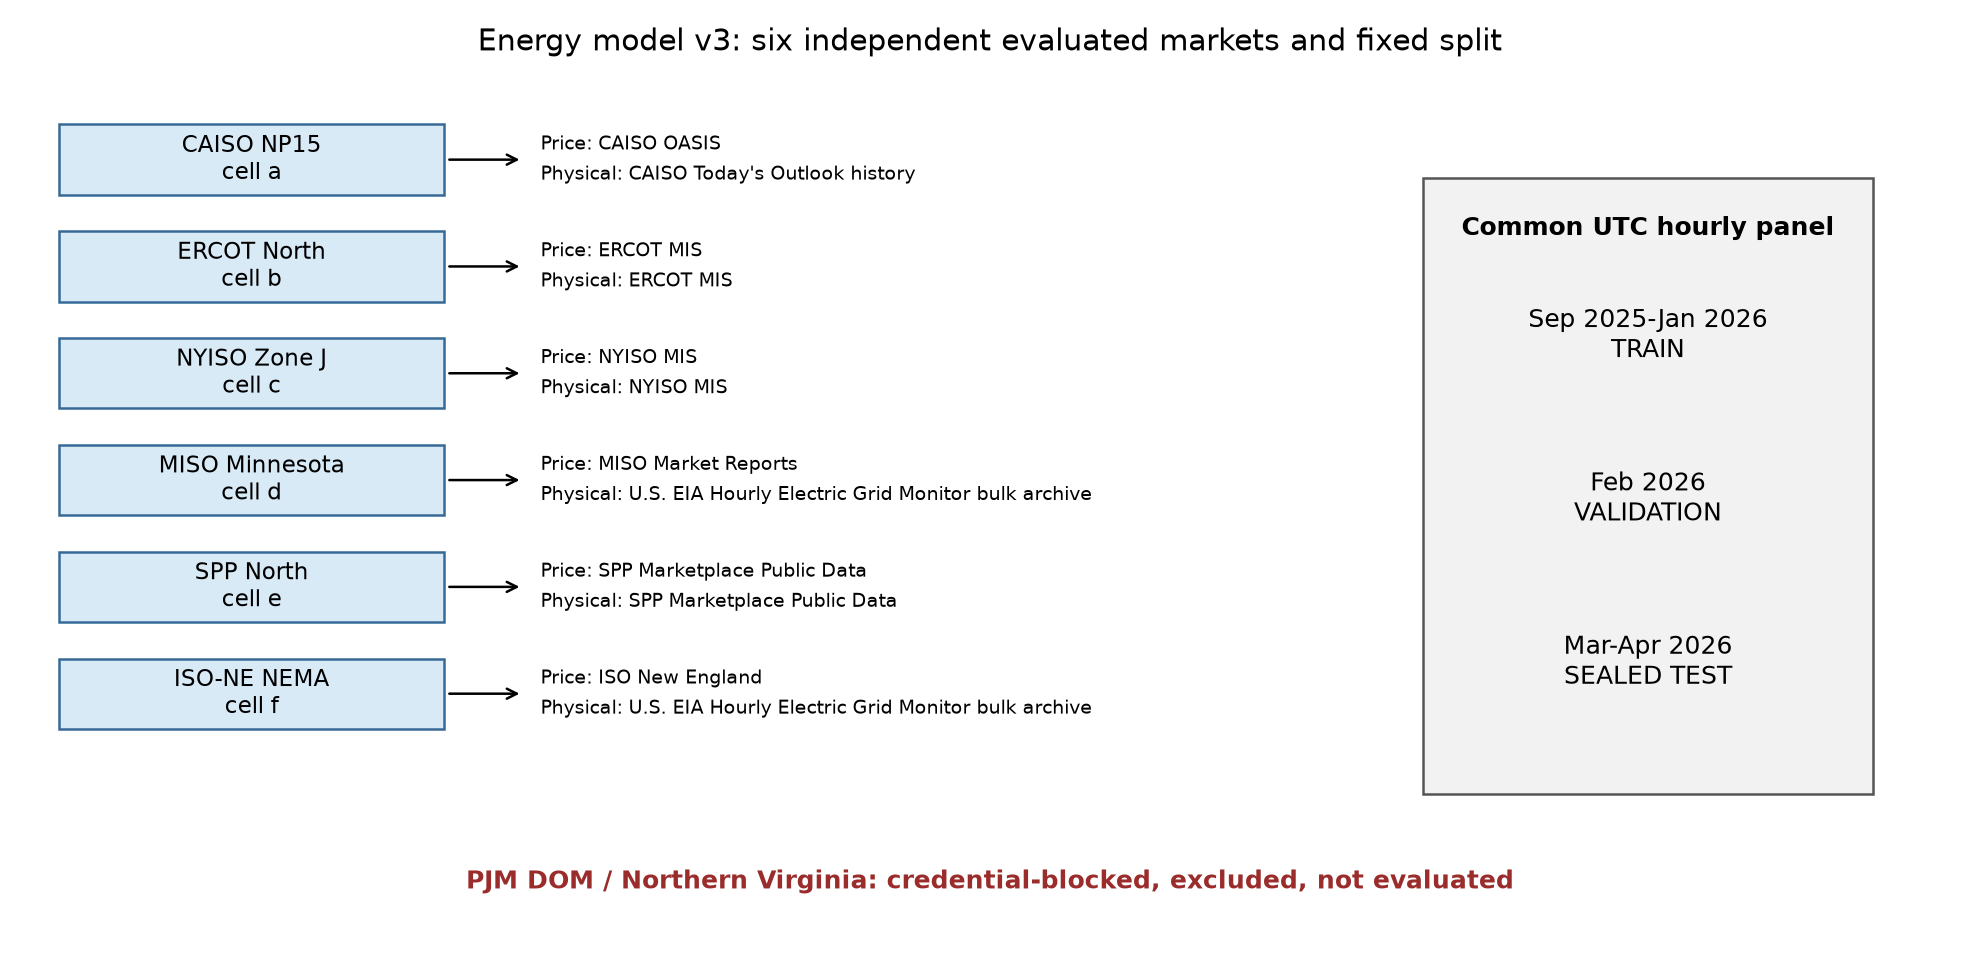
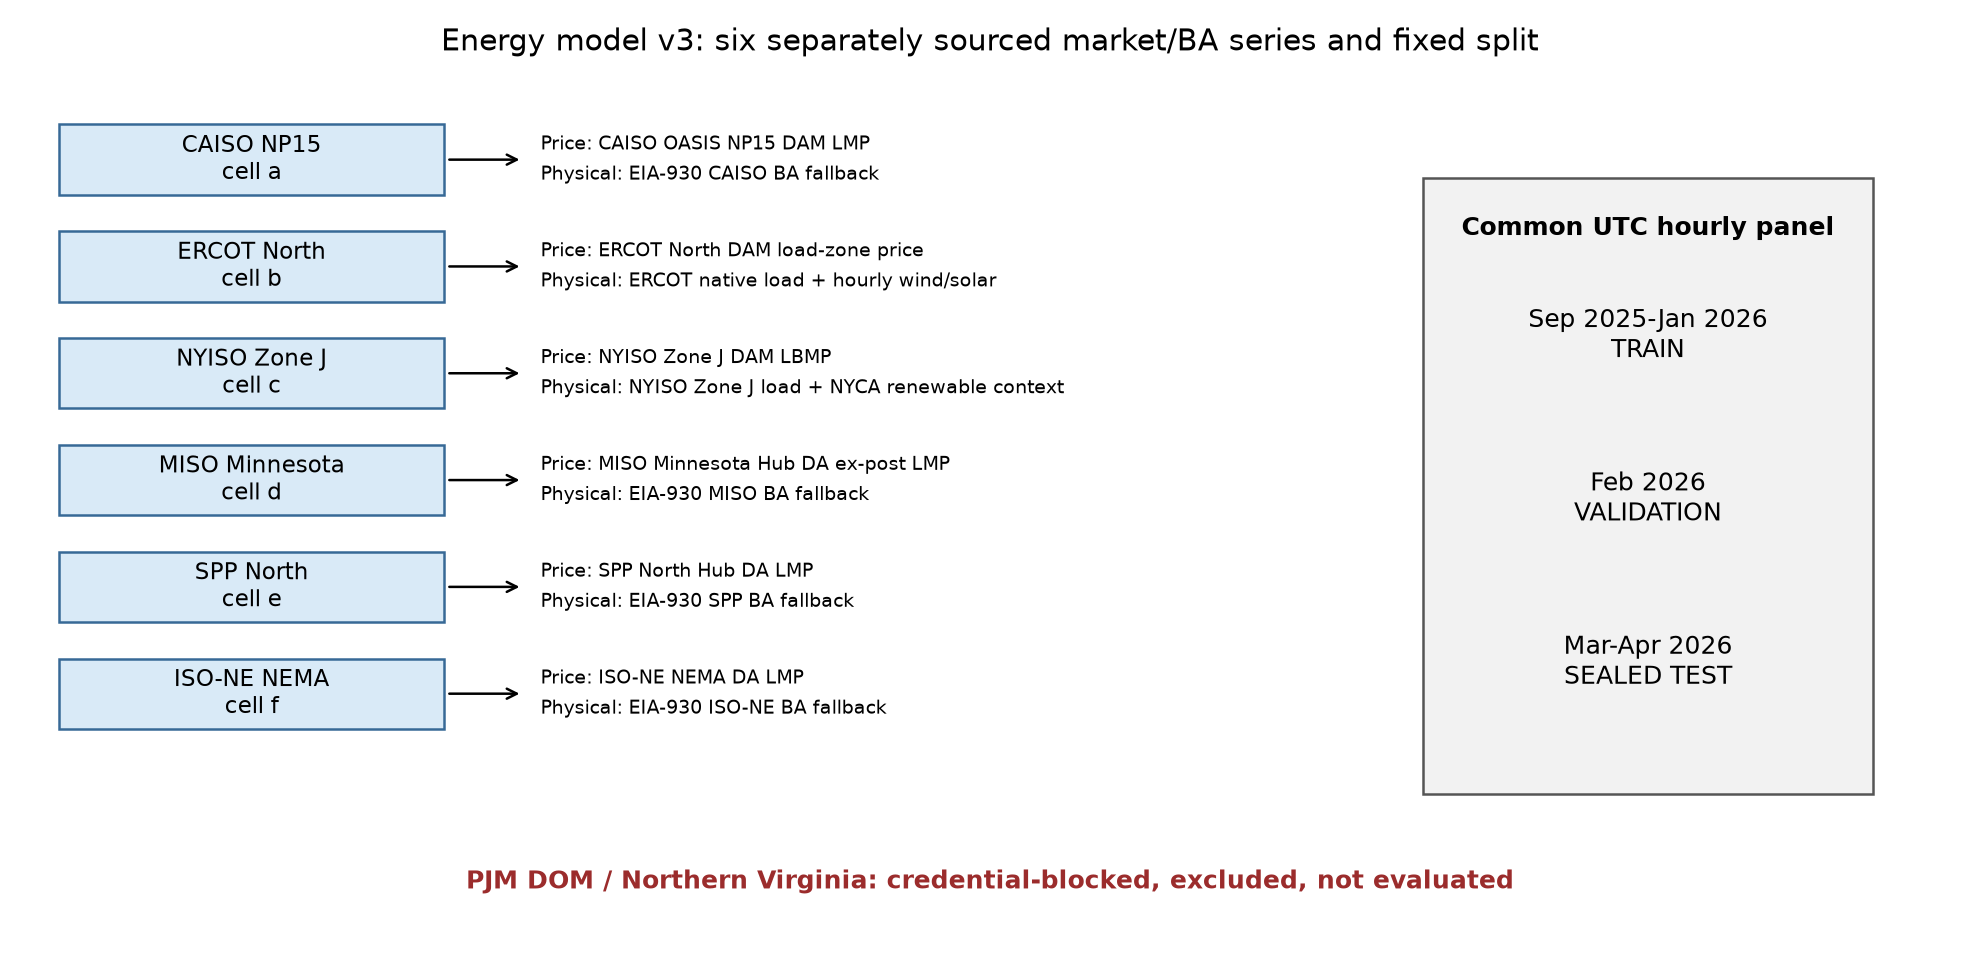
Publish reviewed V4R thesis artifacts

diff --git a/thesis_paper.md b/thesis_paper.md
@@ -20,9 +20,11 @@ thesis asks whether a controller whose learned preferences originate entirely
 in reward-only reinforcement learning can reduce a fleet's incremental
 contribution to physical 1 h and 3 h net-load ramps while preserving exact
 workload service and a day-ahead energy-cost constraint. The study uses a common
-hourly UTC panel from September 2025 through April 2026 for six independently
-observed US markets: CAISO NP15, ERCOT North, NYISO Zone J, MISO Minnesota Hub,
-SPP North Hub, and ISO New England NEMA. September-January is training,
+hourly UTC panel from September 2025 through April 2026 for six separately
+sourced market/balancing-authority series: CAISO NP15, ERCOT North, NYISO Zone J,
+MISO Minnesota Hub, SPP North Hub, and ISO New England NEMA. These are fixed
+market cases, not statistically independent samples or facility-level grids;
+hub/zonal price and physical-stress geographies can differ. September-January is training,
 February is validation, and March-April is sealed test. PJM DOM / Northern
 Virginia was not evaluated because the required credential was unavailable.
 
@@ -61,7 +63,7 @@ emissions, or renewable mismatch by moving workload to favorable places and
 times. Those objectives are useful, but an immediate price signal does not
 directly identify whether controllable demand anticipates a future physical
 ramp. A scheduler may save money while amplifying a balancing-area net-load
-change, or it may counter a ramp without lowering a wholesale settlement proxy.
+change, or it may attenuate ramp magnitude without lowering a wholesale settlement proxy.
 This thesis therefore separates a physical ramp estimand from a wholesale
 day-ahead LMP cost constraint.
 
@@ -69,8 +71,10 @@ The data-center contribution is evaluated against the native market trajectory,
 not against zero load. For market \(m\), time \(t\), and horizon \(h\), the
 question is whether adding modeled data-center power makes the squared,
 market-normalized net-load change larger or smaller than it would have been
-under native demand. Negative incremental impact means counter-ramping; positive
-impact means amplification.
+under native demand. Negative incremental impact means the modeled data-center
+load reduced squared normalized ramp magnitude; it does not by itself prove
+opposite-direction action or delivery of a balancing service. Positive impact
+means amplification.
 
 ## 1.2 Why pure-RL attribution matters
 
@@ -103,8 +107,8 @@ The central question is:
 
 The contributions are:
 
-1. an independently sourced six-market hourly panel with explicit geography,
-   licensing, missing-data, and causal-forecast contracts;
+1. six separately sourced market/BA series with explicit price-versus-physical
+   geography, licensing, missing-data, and causal-forecast contracts;
 2. an incremental squared-ramp objective with interpretable 1 h/3 h p95 and
    maximum adjusted-ramp reporting;
 3. a pure-RL attribution boundary that excludes demonstrations, imitation,
@@ -146,7 +150,7 @@ V6 preserved every failure as evidence:
 | V2-A | all three fresh seeds failed at least one strict gate | shaped retry rejected |
 | V2-B | reporting mean remained weak and strict gates failed | retry rejected |
 | V3 | four of five seeds passed; seed 2805 harmed MISO slightly | conjunctive validation failure; test stayed closed |
-| Original V4 | lost binaries prevented trustworthy evaluation | blocked and explicitly unevaluated |
+| Original V4 | N/A: lost binaries prevented trustworthy evaluation | blocked and explicitly not evaluated |
 | V4R | recovered-policy equal-action ensemble passed validation | new recovered-container identity authorized one test opening |
 
 ![Figure 1. Protocol progression with failures, operational block, and V4R validation success.](docs/figures/ramp_v6/protocol_progression.png)
@@ -168,27 +172,32 @@ observations on one exact hourly UTC index:
 
 | Site proxy | Day-ahead price | Physical stress geography | Workload cell |
 |---|---|---|---|
-| Northern California | CAISO NP15 | CAISO system | a |
-| North Texas | ERCOT LZ North | ERCOT system | b |
+| Northern California | CAISO NP15 | CAISO BA gross demand and renewables via EIA-930 fallback | a |
+| North Texas | ERCOT LZ North | ERCOT native load plus hourly wind/solar | b |
 | New York City | NYISO Zone J | Zone J load with NYCA renewable context | c |
-| Minnesota | MISO Minnesota Hub | MISO system | d |
-| SPP North | SPP North Hub | SPP balancing authority | e |
-| Boston/NEMA | ISO-NE location 4008 | ISO New England balancing authority | f |
+| Minnesota | MISO Minnesota Hub | MISO BA gross demand and renewables via EIA-930 fallback | d |
+| SPP North | SPP North Hub | SPP BA gross demand and renewables via EIA-930 fallback | e |
+| Boston/NEMA | ISO-NE location 4008 | ISO-NE BA gross demand and renewables via EIA-930 fallback | f |
 
 ![Figure 2. Six-market study design and fixed calendar split.](docs/figures/ramp_v6/six_market_study_design.png)
 
-These are independent market series, not wall-time shifts of one CAISO trace.
-They are nevertheless fixed cases rather than random draws from all US grids.
-The market-level physical geography is not a facility feeder, utility territory,
-or local reliability zone. PJM DOM / Northern Virginia was not evaluated and
-has no result in any aggregate.
+These are separately sourced market/BA series, not wall-time shifts of one CAISO
+trace. They are fixed cases rather than statistically independent or iid draws
+from all US grids. Their wholesale price products are hub/zonal series, while
+physical stress can be balancing-authority or system scale; neither represents a
+facility feeder, utility territory, or local reliability zone. PJM DOM /
+Northern Virginia was not evaluated and has no result in any aggregate.
 
 ## 3.2 Source and licensing boundaries
 
 Day-ahead price comes from operator products at the stated hub or zone.
 Physical demand and renewable components use operator products where complete
-and defensible; documented same-balancing-authority EIA bulk fallback is used
-only where the operator historical physical tuple is unavailable. Each source
+and defensible. ERCOT and NYISO use the selected operator physical products;
+CAISO, MISO, SPP, and ISO-NE use a documented same-balancing-authority EIA bulk fallback
+because complete, timestamp-defensible operator history was unavailable. In
+particular, CAISO Today's Outlook lacked an authoritative UTC field and SPP
+GenMix365 had 67 incomplete five-minute hours, which could not be interpolated.
+Each source
 descriptor records product, geography, cadence, units, timezone, revision
 status, authentication, retrieval query/time, raw hash, quality flags, and
 redistribution policy. Restricted raw/native/panel files remain local and
@@ -337,9 +346,13 @@ while there was no new V4R training.
 
 **Frozen V4R source commit:** `46329fe765f596f84eeac71f061dcbd191a90583`
 
[1 lines of base64/hex data omitted]
+**Provenance hash contract:** `dc-energy-provenance-sha256-v2`
 
[1 lines of base64/hex data omitted]
+**Canonical JSON representation:** `canonical-json-utf8-sort-compact-v1`
+
[1 lines of base64/hex data omitted]
+
[1 lines of base64/hex data omitted]
 
 ## 6.2 Validation and sealed test
 
@@ -359,14 +372,14 @@ Test uncertainty: 95% day-block interval [-1.4922706381e-05, -1.3524515743e-05] 
 
 ## 6.3 Per-market effects
 
-| Evaluated market | Validation impact | Sealed-test impact | Test direction |
+| Evaluated market | Validation impact | Sealed-test impact | Test interpretation |
 |---|---:|---:|---|
-| CAISO NP15 | -1.8414305411e-05 | -2.1065969624e-05 | counter-ramp |
-| ERCOT North | -3.2585091348e-06 | -2.3454355897e-06 | counter-ramp |
-| ISO-NE NEMA | -2.1716239336e-05 | -2.7491577052e-05 | counter-ramp |
-| MISO Minnesota Hub | -2.9472402337e-07 | -5.652448501e-07 | counter-ramp |
-| NYISO Zone J | -3.7629896454e-05 | -3.2978547293e-05 | counter-ramp |
-| SPP North Hub | -3.2077688281e-06 | -1.1054886764e-06 | counter-ramp |
+| CAISO NP15 | -1.8414305411e-05 | -2.1065969624e-05 | reduced modeled data-center contribution to squared normalized grid ramps |
+| ERCOT North | -3.2585091348e-06 | -2.3454355897e-06 | reduced modeled data-center contribution to squared normalized grid ramps |
+| ISO-NE NEMA | -2.1716239336e-05 | -2.7491577052e-05 | reduced modeled data-center contribution to squared normalized grid ramps |
+| MISO Minnesota Hub | -2.9472402337e-07 | -5.652448501e-07 | reduced modeled data-center contribution to squared normalized grid ramps |
+| NYISO Zone J | -3.7629896454e-05 | -3.2978547293e-05 | reduced modeled data-center contribution to squared normalized grid ramps |
+| SPP North Hub | -3.2077688281e-06 | -1.1054886764e-06 | reduced modeled data-center contribution to squared normalized grid ramps |
 
 ![Figure 4. Sealed-test incremental ramp impact by evaluated market.](docs/figures/ramp_v6/v4r_per_market_test.png)
 
@@ -441,7 +454,8 @@ reliability claim. PJM and Northern Virginia remain absent.
 
 The controller is price-taking: data-center action does not change LMP, unit
 commitment, reserves, or network constraints. This is most plausible for the
-600 MW primary case. The 1 GW-total case is a bounded sensitivity, while larger
+600 MW primary case. The 1 GW-total case is a price-taking scale sensitivity, not evidence that price
+or network response would remain exogenous at that penetration; larger
 penetration overrides are stress tests.
 
 ## 8.2 Data and forecast horizon
@@ -480,11 +494,22 @@ different results.
 ## 9.1 Committed and local evidence
 
 The final publication path is
-`output/ramp_rl_v6/recovered_v4r/canonical_evidence.json`. Recovery binding,
-source freeze, validation/test decisions, single-open records, embedded raw
-results, and post-selection robustness records reside beside it. The generated
-claim ledger and CSV tables are under
-`output/ramp_rl_v6/recovered_v4r/thesis/`.
+`output/ramp_rl_v6/recovered_v4r_resealed_v2/canonical_evidence.json`. Its
+hash contract is `dc-energy-provenance-sha256-v2`. JSON evidence identities use
+`canonical-json-utf8-sort-compact-v1`; tracked non-JSON source text uses
+Git-blob bytes at an explicit commit and path, never platform-dependent
+working-tree bytes. Binary and model-container identities use raw bytes.
+Recovery binding, source freeze, validation/test chains, single-open records,
+and post-selection robustness chains reside beside it. The generated claim
+ledger and CSV tables are under
+`output/ramp_rl_v6/recovered_v4r_resealed_v2/thesis/`.
+
+The reseal has `provenance-hash-chain-only` supersession scope. It supersedes
+only platform-dependent checkout hashes in the original evidence chain; the
+protocol, chronology, controller, trained models, data, forecasts, numerical
+metrics, strict decisions, and sealed-test opening are unchanged. The original
+evidence remains append-only historical provenance rather than the publication
+hash authority.
 
 Recovered model binaries may be intentionally local or unavailable in a fresh
 clone because of size or licensing constraints. Their required SHA-256 values,
@@ -499,18 +524,18 @@ Run from the repository root in this worktree:
 
 ```powershell
 python scripts\build_ramp_rl_thesis_results.py --v4r `
-  output\ramp_rl_v6\recovered_v4r\canonical_evidence.json `
-  --output output\ramp_rl_v6\recovered_v4r\thesis
+  output\ramp_rl_v6\recovered_v4r_resealed_v2\canonical_evidence.json `
+  --output output\ramp_rl_v6\recovered_v4r_resealed_v2\thesis
 
 python scripts\build_ramp_thesis_figures.py
 
 python scripts\materialize_ramp_thesis.py `
-  --results output\ramp_rl_v6\recovered_v4r\canonical_evidence.json `
+  --results output\ramp_rl_v6\recovered_v4r_resealed_v2\canonical_evidence.json `
   --output thesis_paper.md
 
 python scripts\validate_ramp_thesis.py `
   --source thesis_paper.md `
-  --results output\ramp_rl_v6\recovered_v4r\canonical_evidence.json
+  --results output\ramp_rl_v6\recovered_v4r_resealed_v2\canonical_evidence.json
 
 python scripts\build_final_thesis.py `
   --source thesis_paper.md `
@@ -552,8 +577,9 @@ exact simulated service and deadlines, and required no emergency action.
 
 The result supports a narrow conclusion: under the frozen six-market,
 price-taking simulator and fixed 2025-2026 panel, pure-RL-origin preferences
-with constraint-only decoding can anticipate and counter measured market-scale
-ramps. It does not establish feeder relief, endogenous market effects, retail
+with constraint-only decoding reduced the modeled data-center contribution to
+squared normalized grid ramps. It does not establish opposite-direction action,
+balancing-service delivery, feeder relief, endogenous market effects, retail
 savings, universal US-grid generalization, or future-year performance.
 
 # References
